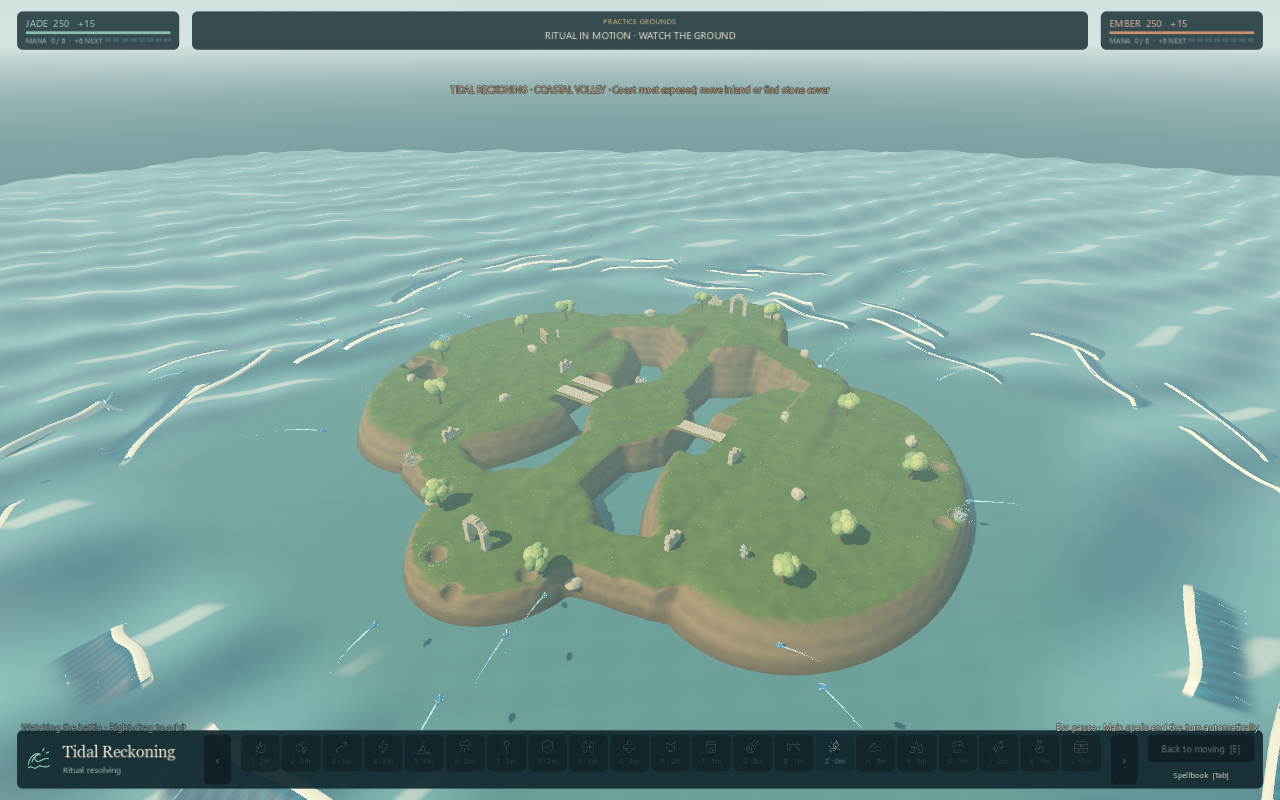
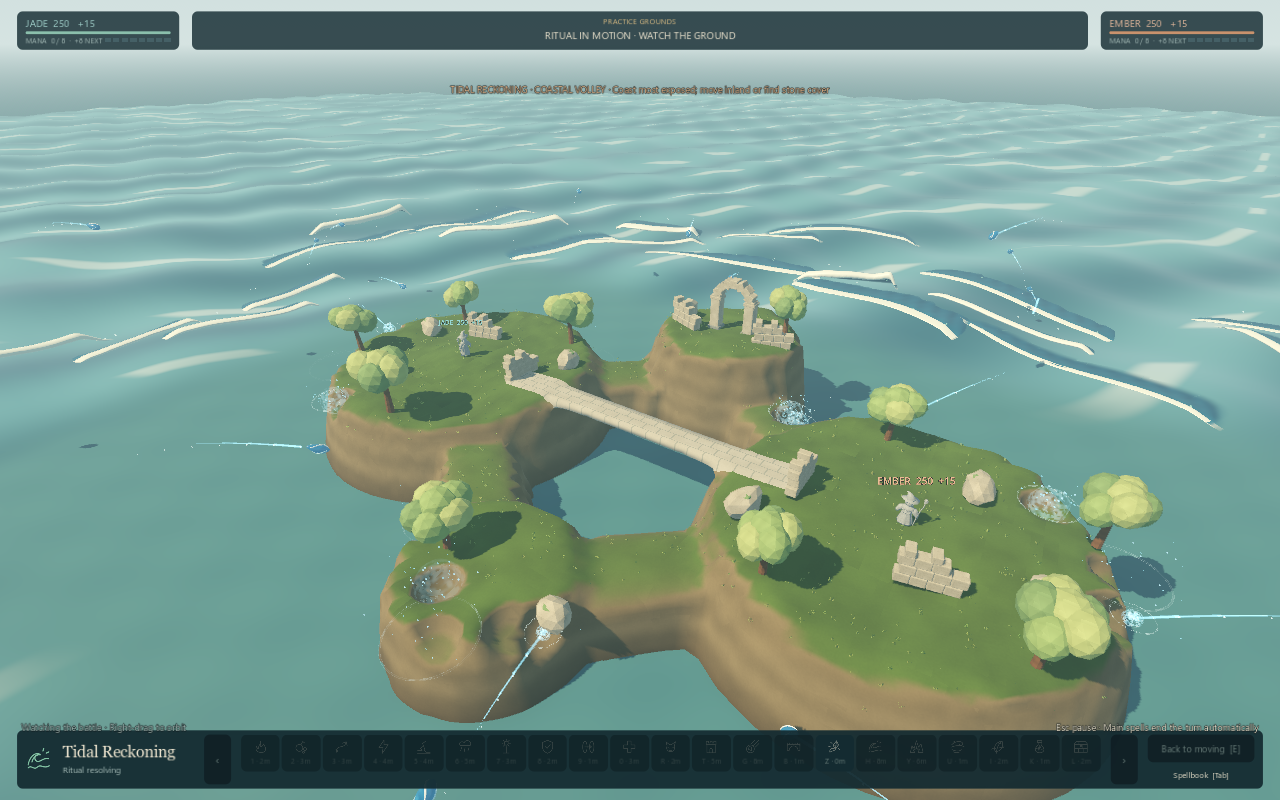
Publish ARCFALL 1.8.1 launch fixes and player guide

diff --git a/README.md b/README.md
@@ -2,7 +2,7 @@
 
 **Judge the arc. Break the ground. Be the last wizard standing.**
 
-A first-person, turn-based wizard artillery game. Prepare eight spells under a
+A first-person, turn-based wizard artillery game. Prepare up to eight spells under a
 20-point budget, bank mana for a devastating ritual, and turn your opponent's
 cover into a crater. Water is deadly. Position matters as much as damage.
 
@@ -59,7 +59,7 @@ tools. Every book retains Blink and the free Staff Spark.
 
 ![A charged sky beacon: land the shot to call the descending attack](images/learn.png)
 
-*Current 1.8 Windows gameplay: standalone beacon, wall and storm captures, plus the native eight-player opening.*
+*Windows gameplay from the 1.8 series: the storm is captured in 1.8.1; the beacon, wall and eight-player opening are from 1.8.0.*
 
 ## Prepare, reposition, counterattack
 

diff --git a/CHANGELOG.md b/CHANGELOG.md
@@ -1,3 +1,11 @@
+# ARCFALL 1.8.1
+
+Spell effects are prepared during loading, addressing the reproduced pauses when
+Tide and Worldsplitter first appear. The painted art and spell rules are retained.
+Spell preparation now names and checks the selected preset; custom edits clear
+that check. AI Gale Palm targeting recognizes shoreline displacement that its
+previous short prediction missed, while respecting stone and Ward protection.
+
 # ARCFALL 1.8
 
 **Prepare, reposition, counterattack.** One optional support can precede your
